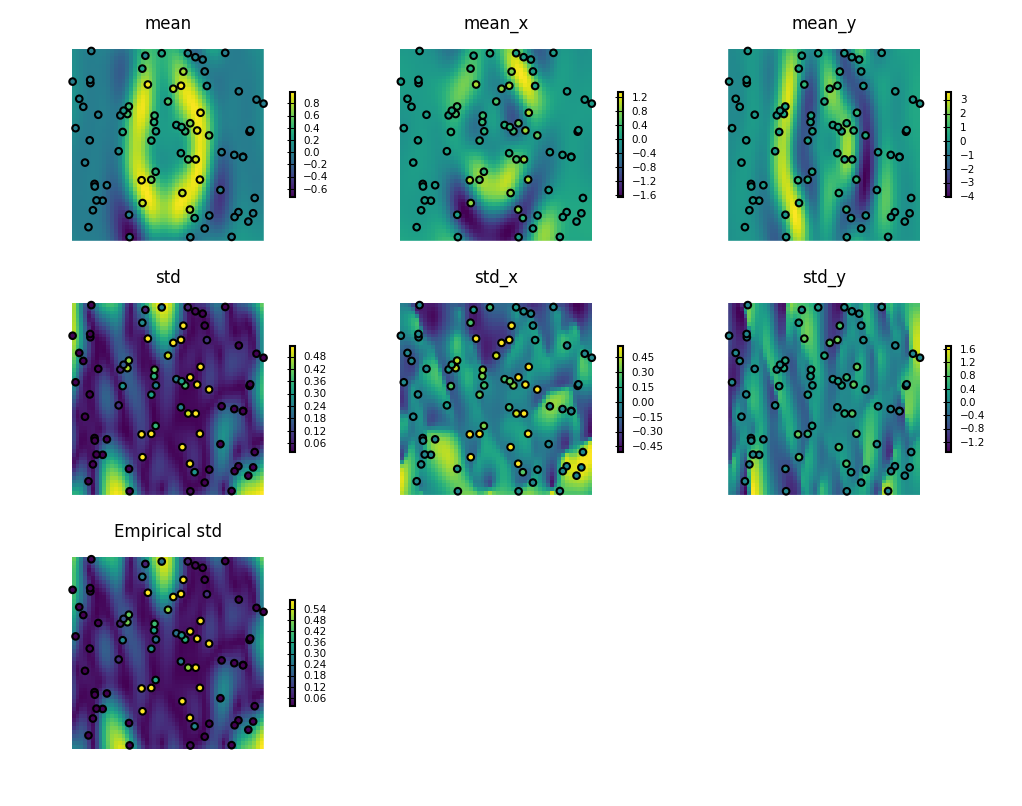
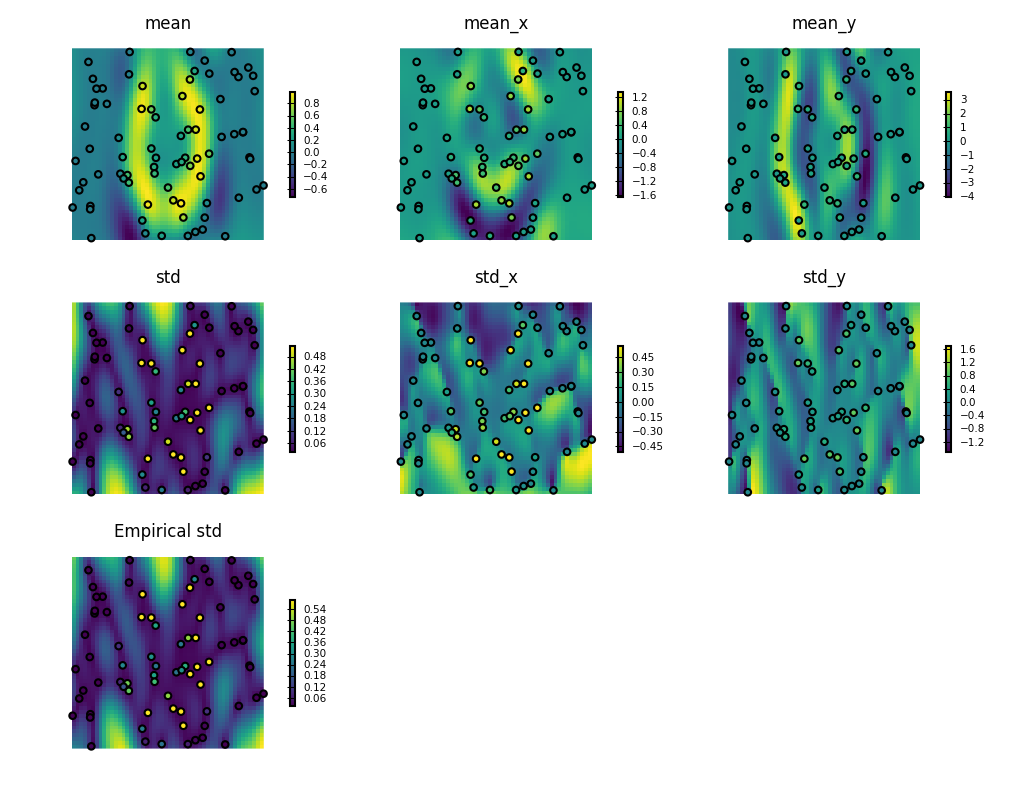
Correct plotting

diff --git a/gaussian_process/optimizer.py b/gaussian_process/optimizer.py
@@ -61,11 +61,12 @@ class LikelihoodOptimizer(object, metaclass=ABCMeta):
 
         return gp
 
-    def maximum_likelihood(self, method='COBYLA', maxiter=1000):
+    def maximum_likelihood(self, method='COBYLA', maxiter=1000, disp=True):
         """Maximize the likelihood
 
         :param method: string, method to use for optimization
         :param maxiter: int, maximum number of iterations
+        :param disp: boolean, whether or not to display the results
         :return: results of the optimization
         """
 
@@ -76,7 +77,7 @@ class LikelihoodOptimizer(object, metaclass=ABCMeta):
 
         res = minimize(likelihood_optimization_func, self.initial_guess,
                        method=method,
-                       options={'disp': True, 'maxiter': maxiter})
+                       options={'disp': disp, 'maxiter': maxiter})
         self.initial_guess = res.x
         return res
 

diff --git a/gaussian_process/gp.py b/gaussian_process/gp.py
@@ -473,7 +473,7 @@ class GaussianProcess2d(GaussianProcess):
 
         result = self._estimate_gp(list_x, list_y)
 
-        x = [x[0] for x in self.list_observations]
+        x = [-x[0] for x in self.list_observations]
         y = [x[1] for x in self.list_observations]
 
         fig, axs = plt.subplots(3, 3)
